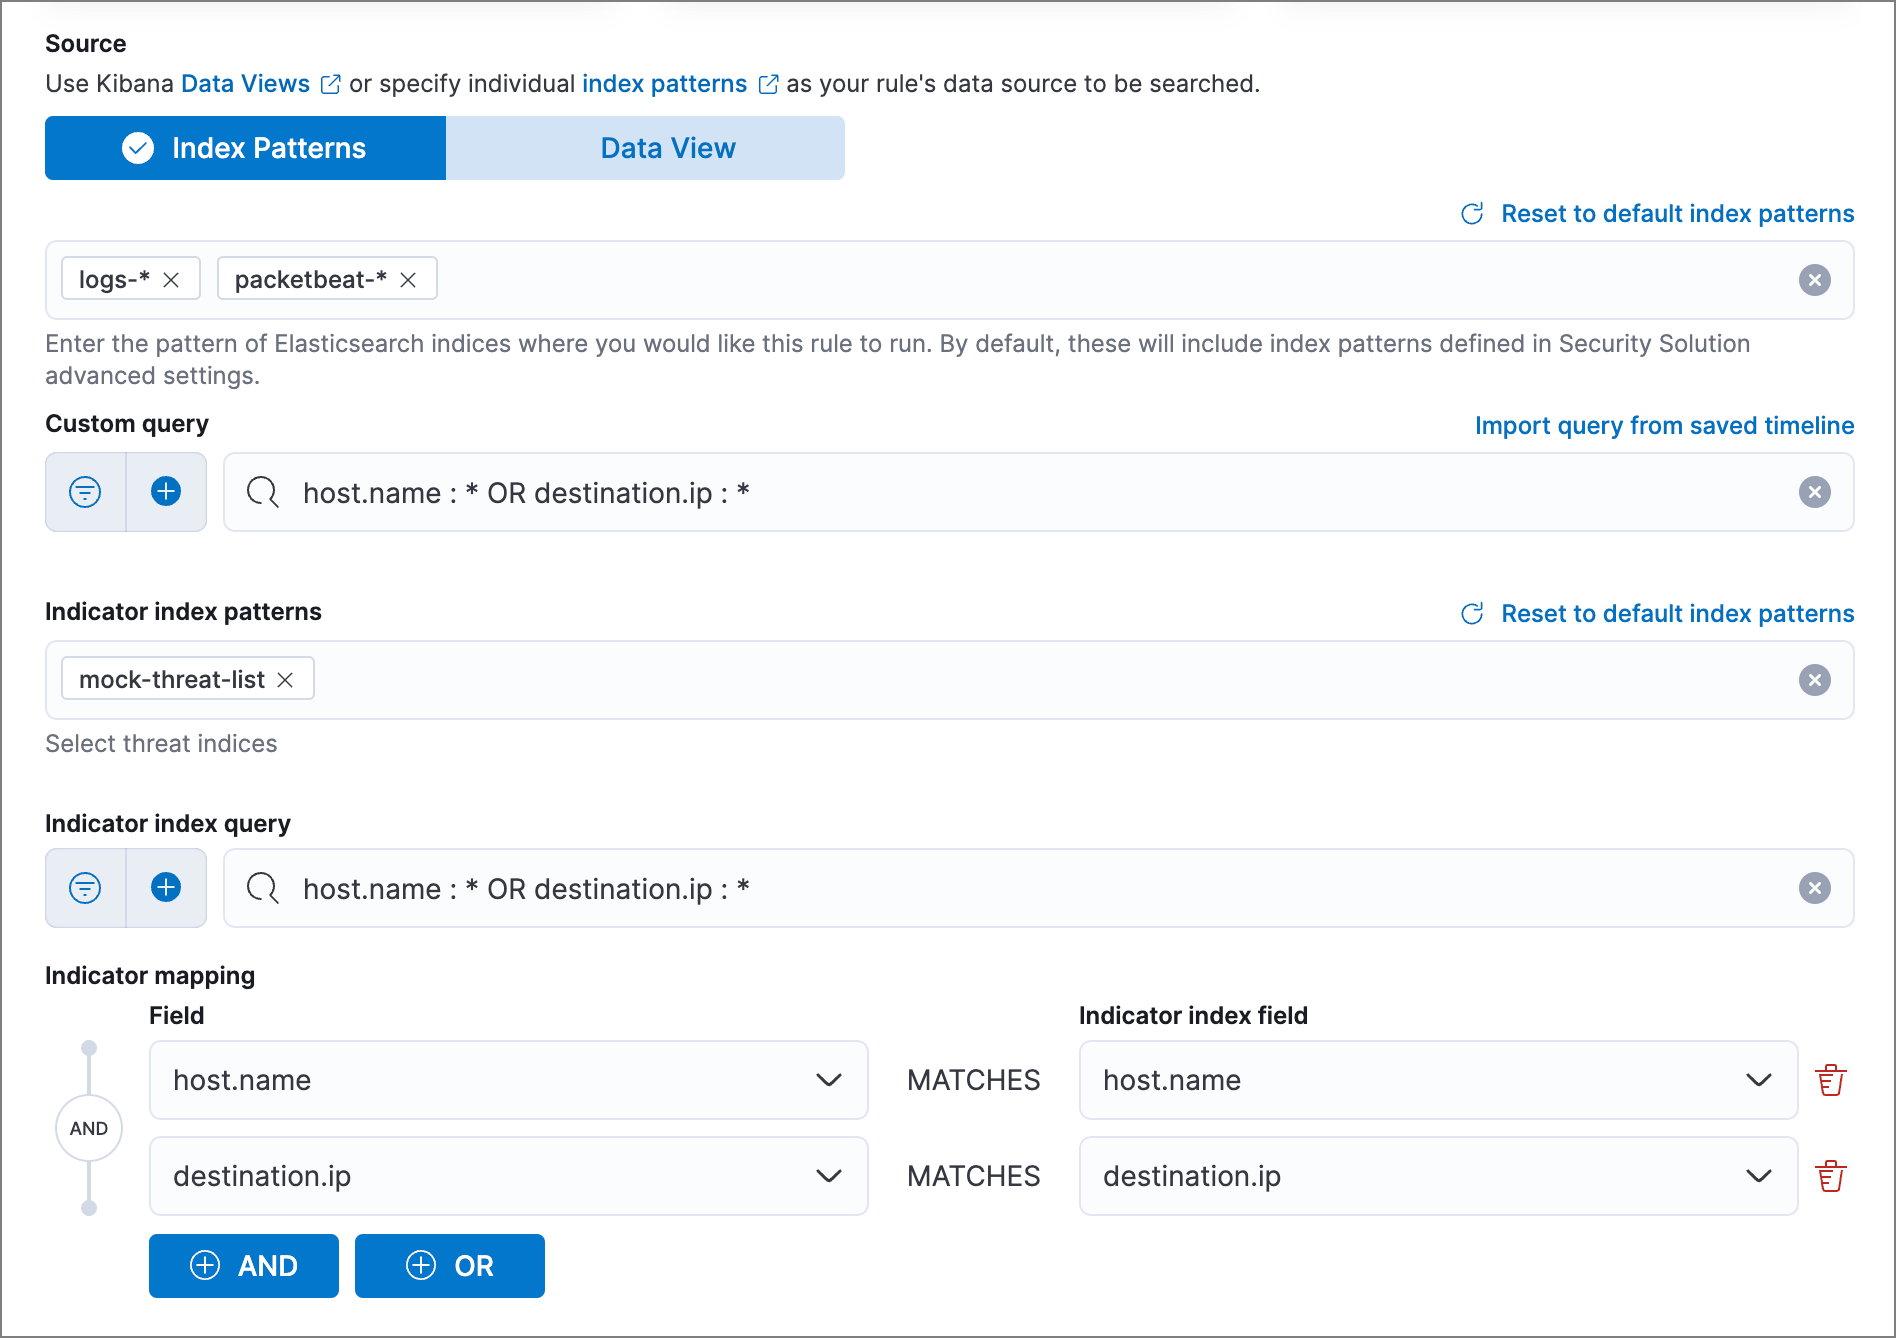
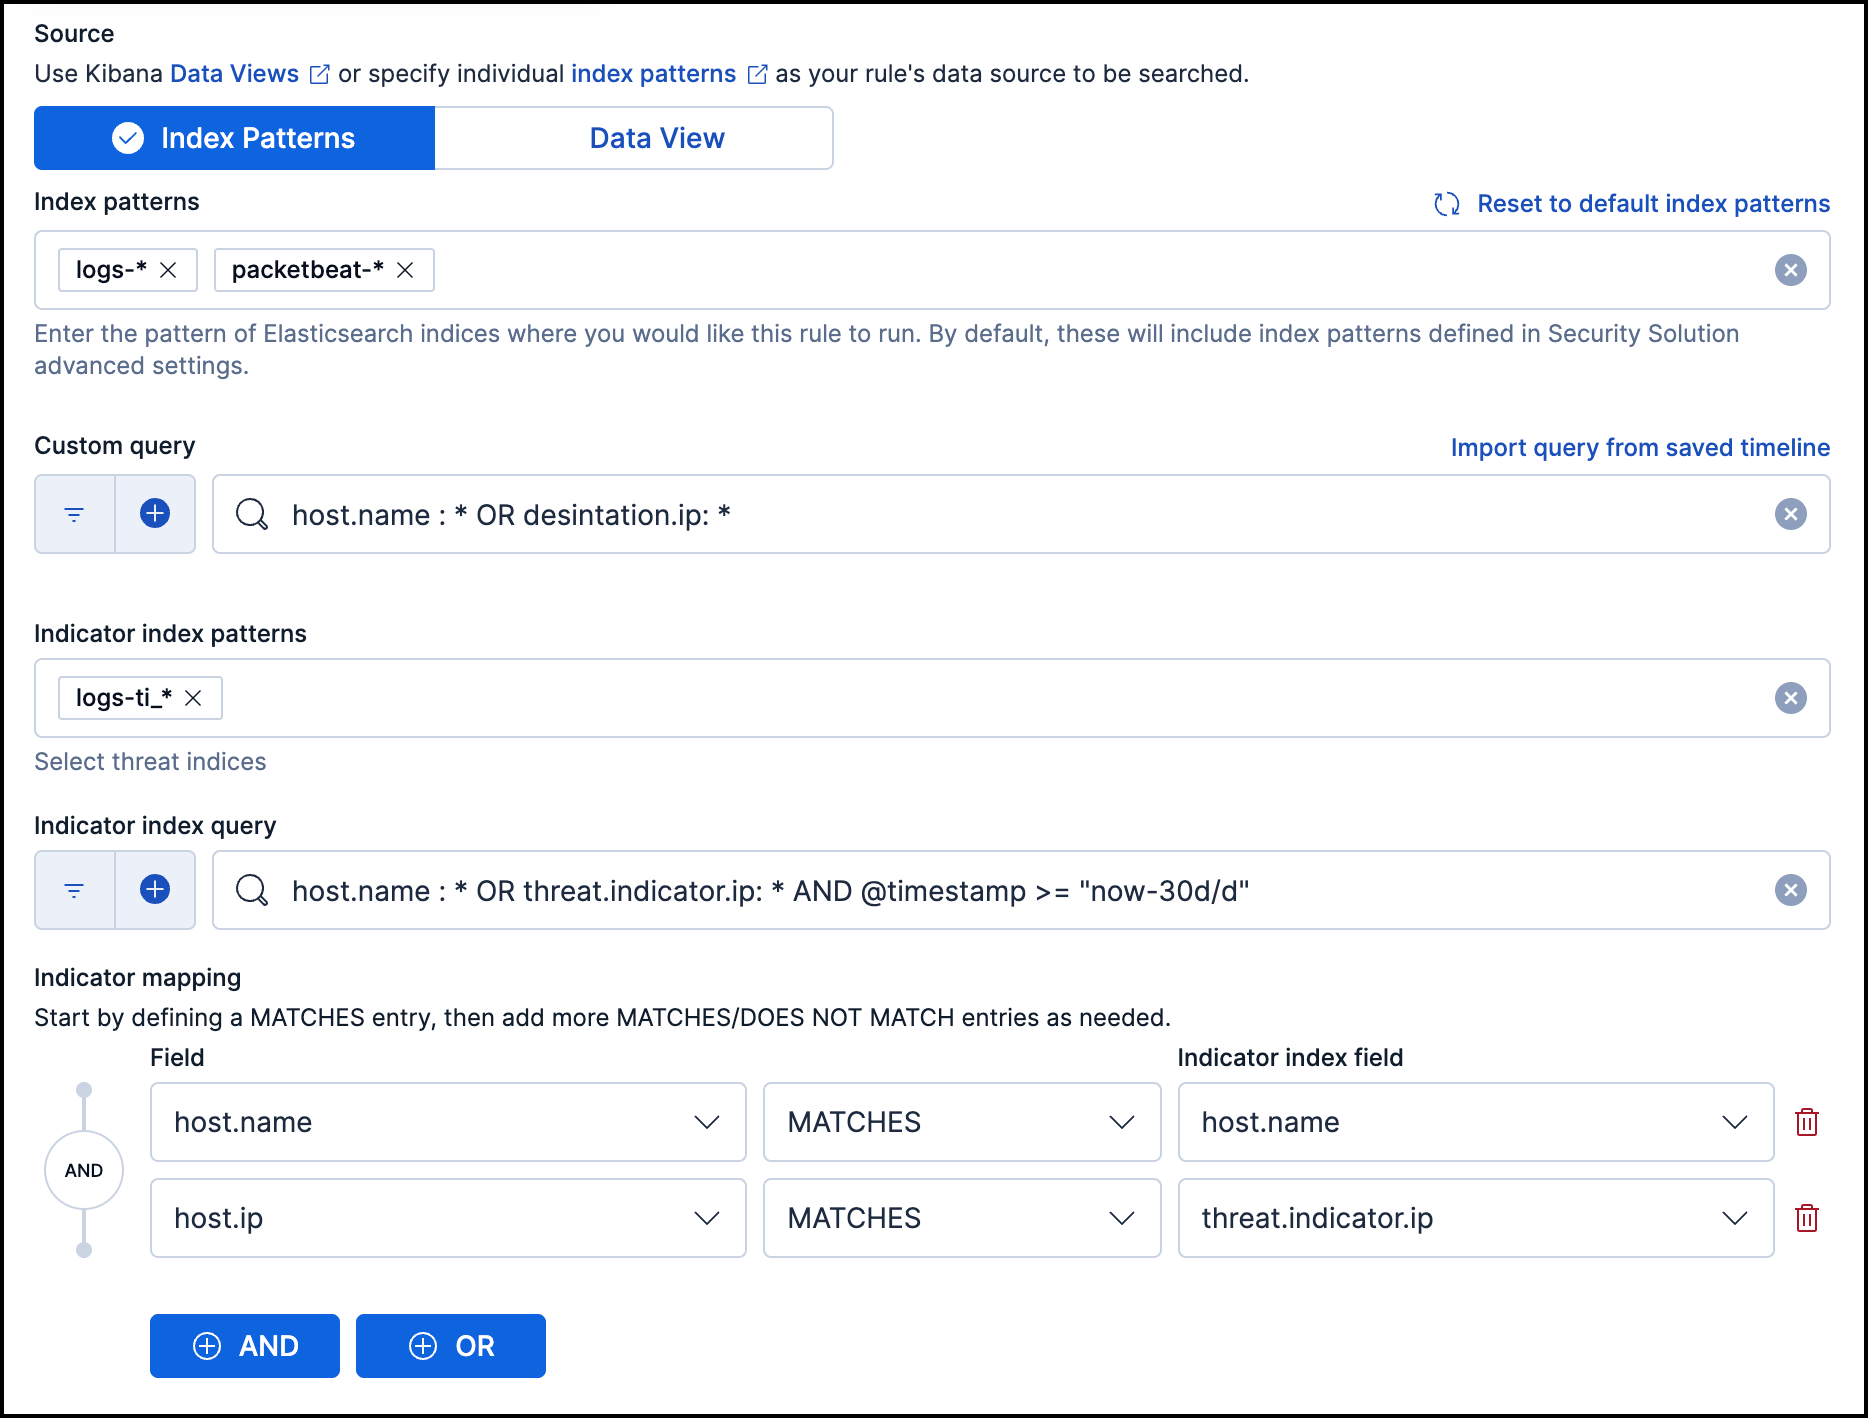
[Security][Detection Engine][9.2 & Serverless] IM rule has DOES NOT MATCH condition  (#2672)
Contributes to https://github.com/elastic/docs-content/issues/2295 by
documenting the new `DOES NOT MATCH` condition that's available for
indicator match rules. Also makes minor improvements to the steps for
creating the indicator match rule and fixes a typo in the
`securitySolution:defaultThreatIndex` advanced setting description.

Preview
- [Create a detection
rule](https://docs-v3-preview.elastic.dev/elastic/docs-content/pull/2672/solutions/security/detect-and-alert/create-detection-rule#create-indicator-rule)
- [Configure advanced settings | Update default Elastic Security threat
intelligence
indices](https://docs-v3-preview.elastic.dev/elastic/docs-content/pull/2672/solutions/security/get-started/configure-advanced-settings#update-threat-intel-indices)

---------

Changed region(s): [[0.0, 0.0, 1.0, 1.0]]

diff --git a/solutions/security/detect-and-alert/create-detection-rule.md b/solutions/security/detect-and-alert/create-detection-rule.md
@@ -235,47 +235,53 @@ To filter noisy {{ml}} rules, use [rule exceptions](/solutions/security/detect-a
 ## Create an indicator match rule [create-indicator-rule]
 
 ::::{note}
-{{elastic-sec}} provides limited support for indicator match rules. See [Limited support for indicator match rules](/solutions/security/detect-and-alert.md#support-indicator-rules) for more information.
+{{elastic-sec}} provides [limited support](/solutions/security/detect-and-alert.md#support-indicator-rules) for indicator match rules.
 ::::
 
-
 1. Find **Detection rules (SIEM)** in the navigation menu or by using the [global search field](/explore-analyze/find-and-organize/find-apps-and-objects.md), then click **Create new rule**.
-2. To create a rule that searches for events whose specified field value matches the specified indicator field value in the indicator index patterns, select **Indicator Match**, then fill in the following fields:
 
-    1. **Source**: The individual index patterns or data view that specifies what data to search.
-    2. **Custom query**: The query and filters used to retrieve the required results from the {{elastic-sec}} event indices. For example, if you want to match documents that only contain a `destination.ip` address field, add `destination.ip : *`.
+2. To create a rule that continually compares your security source events with threat indicators and generates alerts when they meet the rule criteria that you specify, select **Indicator Match**, then configure the following:
+
+    1. **Source**: The index patterns or data view that store your source event documents. The **Index patterns** field is prepopulated with indices that are set in the [default {{elastic-sec}} indices](/solutions/security/get-started/configure-advanced-settings.md#update-sec-indices). If you choose to use a **Data View**, you must specify one from the drop-down.  
+    
+    2. **Custom query**: The query and filters used to retrieve documents from your source event indices. Field values in these documents are compared against indicator values, according to the threat mapping conditions that you set.
+    
+        The default KQL query `*:*` retrieves every document in the specified event indices. You can modify the query as needed. For example, if you only want to retrieve documents that contain a `destination.ip` address field, enter `destination.ip : *`.
 
         ::::{tip}
-        If you want the rule to check every field in the indices, use this wildcard expression: `*:*`.
-        ::::
-
-
-        ::::{note}
         You can use saved queries and queries from saved Timelines (**Import query from saved Timeline**) as rule conditions.
         ::::
 
-    3. **Indicator index patterns**: The indicator index patterns containing field values for which you want to generate alerts. This field is automatically populated with indices specified in the `securitySolution:defaultThreatIndex` advanced setting. For more information, see [Update default Elastic Security threat intelligence indices](/solutions/security/get-started/configure-advanced-settings.md#update-threat-intel-indices).
+    3. **Indicator index patterns**: The index patterns that store your threat indicator documents. This field is prepopulated with indices specified in the [`securitySolution:defaultThreatIndex`](/solutions/security/get-started/configure-advanced-settings.md#update-threat-intel-indices) advanced setting.
 
         ::::{important}
-        Data in indicator indices must be [ECS compatible](/reference/security/fields-and-object-schemas/siem-field-reference.md), and so it must contain a `@timestamp` field.
+        Data in threat indicator indices must be [ECS compatible](/reference/security/fields-and-object-schemas/siem-field-reference.md), and must contain a `@timestamp` field.
         ::::
 
-    4. **Indicator index query**: The query and filters used to filter the fields from the indicator index patterns. The default query `@timestamp > "now-30d/d"` searches specified indicator indices for indicators ingested during the past 30 days and rounds the start time down to the nearest day (resolves to UTC `00:00:00`).
-    5. **Indicator mapping**: Compares the values of the specified event and indicator fields, and generates an alert if the values are identical.
+    4. **Indicator index query**: The query used to retrieve documents from your threat indicator indices. Field values in these documents are compared against source event values, according to the threat mapping conditions that you set. 
+    
+        The default KQL query `@timestamp > "now-30d/d"` searches the threat indicator indices for threat intelligence indicators that were ingested during the past 30 days. The start time is rounded down to the nearest day (resolves to UTC `00:00:00`).
+
+    5. **Indicator mapping**: Set threat mapping conditions that compare values in source event fields with values in threat indicator fields. Alerts are generated if the conditions are met.
 
         ::::{note}
         Only single-value fields are supported.
         ::::
 
+        To specify fields to compare from your specified source event and threat indicator indices, create a threat mapping entry and configure the following:
 
-        To define which field values are compared from the indices, add the following:
+        * **Field**: Select a field from your source event indices for comparison. 
+        * {applies_to}`stack: ga 9.2` **MATCHES/DOES NOT MATCH**: Choose whether the source event field value should match or not match the threat indicator field value that it's being compared to.
 
-        * **Field**: The field used for comparing values in the {{elastic-sec}} event indices.
-        * **Indicator index field**: The field used for comparing values in the indicator indices.
+            ::::{note}
+            Define matching (`MATCHES`) conditions first, then narrow down your results even more by adding `DOES NOT MATCH` conditions to exclude field values that you want to ignore. Mapping entries that _only_ use the `DOES NOT MATCH` condition are not supported. When configuring your threat mappings, at least one entry must have a `MATCHES` condition. 
+            ::::
 
-    6. You can add `AND` and `OR` clauses to define when alerts are generated.
+        * **Indicator index field**: Select a field from your threat indicator index for comparison. 
 
-        For example, to create a rule that generates alerts when `host.name` **and** `destination.ip` field values in the `logs-*` or `packetbeat-*` {{elastic-sec}} indices are identical to the corresponding field values in the `mock-threat-list` indicator index, enter the rule parameters seen in the following image:
+    6. (Optional) Add more threat mapping entries and combine them with `AND` and `OR` clauses.
+
+        For example, to create a rule that generates alerts when `host.name` **and** `destination.ip` field values in the `logs-*` or `packetbeat-*` {{elastic-sec}} indices are identical to the corresponding field values in the `logs-ti_*` indicator index, enter the rule parameters seen in the following image:
 
         :::{image} /solutions/images/security-indicator-rule-example.png
         :alt: Indicator match rule settings

diff --git a/solutions/security/get-started/configure-advanced-settings.md b/solutions/security/get-started/configure-advanced-settings.md
@@ -89,7 +89,7 @@ The `securitySolution:defaultThreatIndex` advanced setting specifies threat inte
 
 
 
-You can specify one or more threat intelligence indices; multiple indices must be separated by commas. By default, only the `logs-ti*` index pattern is specified. Do not remove or overwrite this index pattern, as it is used by {{agent}} integrations.
+You can specify one or more threat intelligence indices; multiple indices must be separated by commas. By default, only the `logs-ti_*` index pattern is specified. Do not remove or overwrite this index pattern, as it is used by {{agent}} integrations.
 
 ::::{important}
 Threat intelligence indices aren’t required to be ECS-compatible for use in indicator match rules. However, we strongly recommend compatibility if you want your alerts to be enriched with relevant threat indicator information. When searching for threat indicator data, indicator match rules use the threat indicator path specified in the **Indicator prefix override** advanced setting. Visit [Configure advanced rule settings](/solutions/security/detect-and-alert/create-detection-rule.md#rule-ui-advanced-params) for more information.
